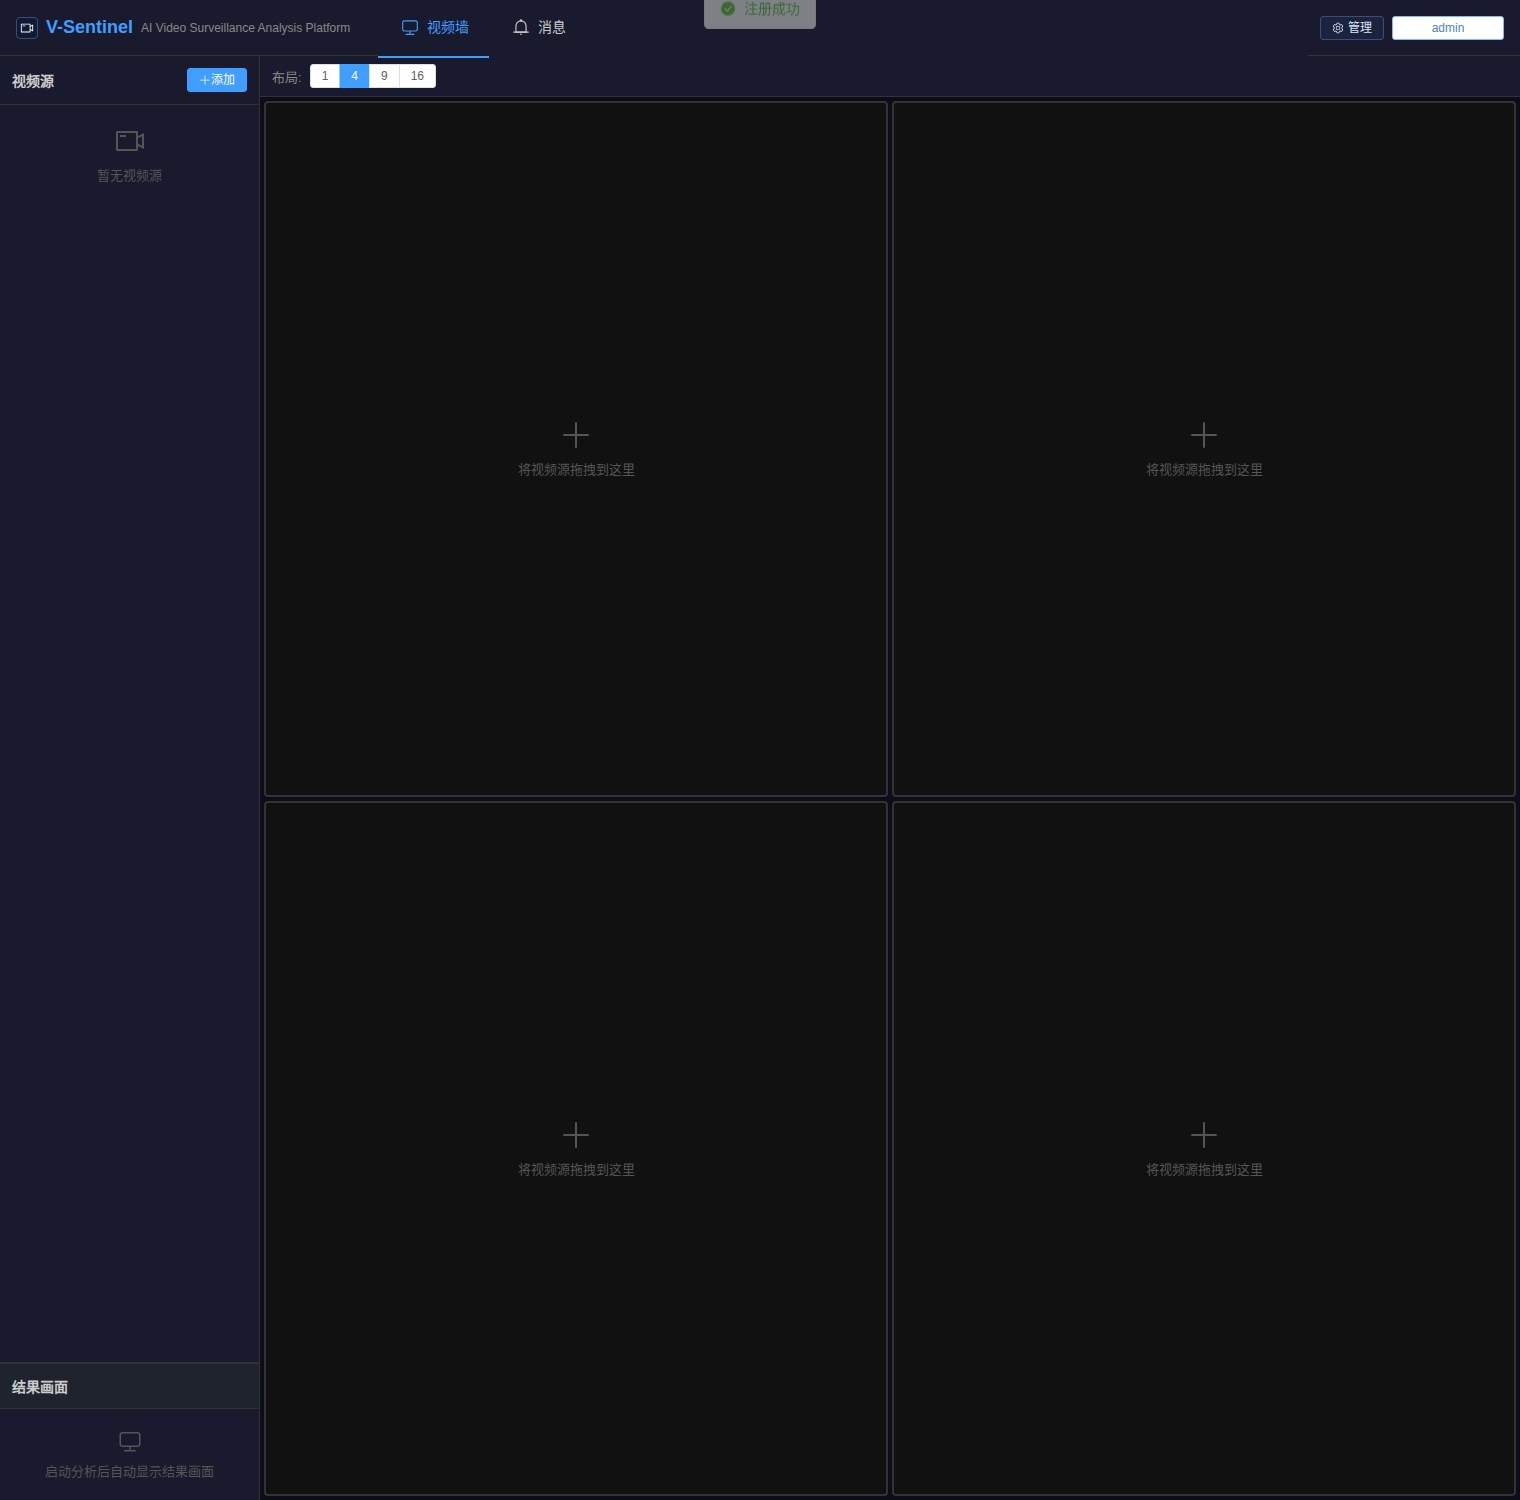
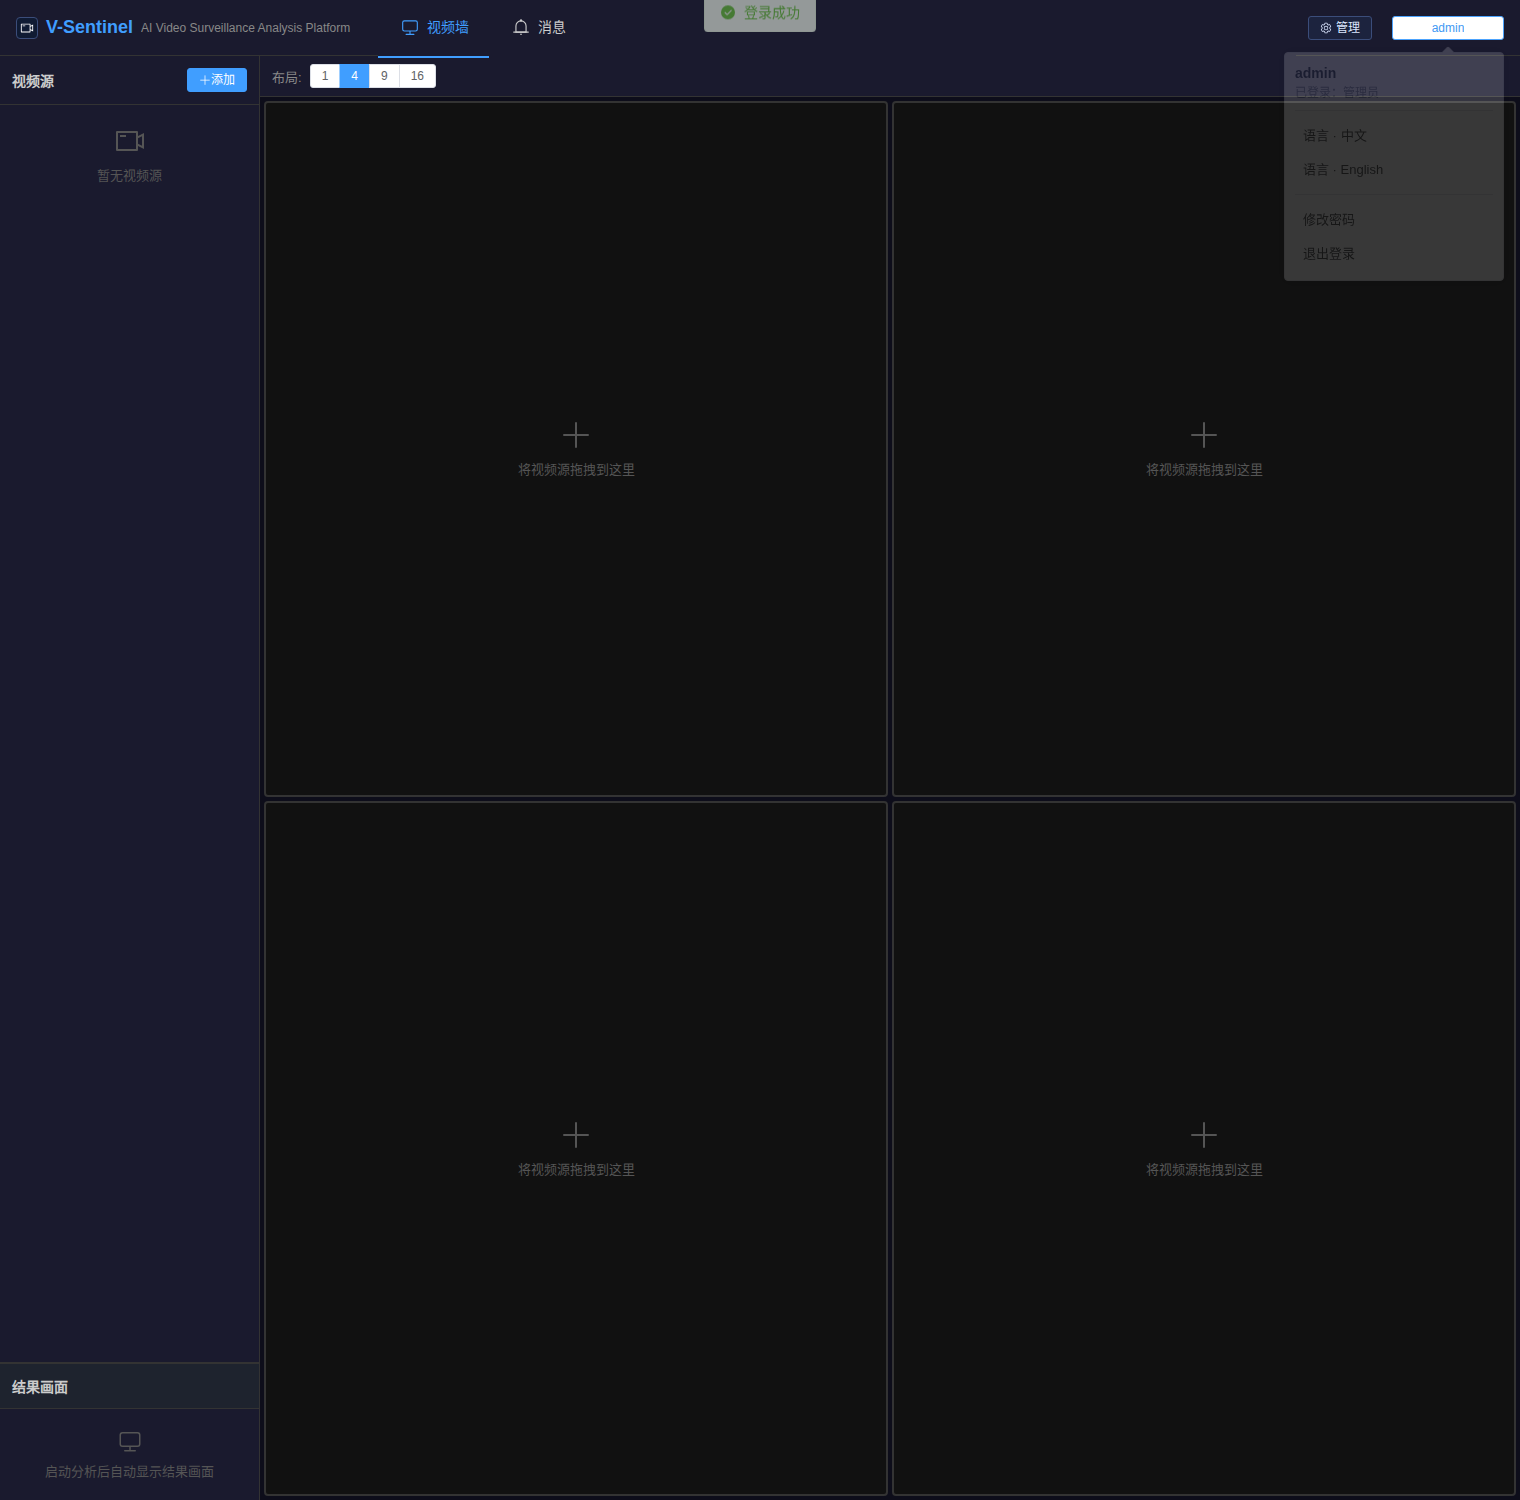
fix: register account popover and refresh screenshots
Agent-Logs-Url: https://github.com/doubletry/V-Sentinel-Smoke/sessions/e04d62c3-792f-4b02-a8a4-ff10dd51e361

Changed region(s): [[0.8349, 0.0, 0.9895, 0.2147], [0.4638, 0.0, 0.5257, 0.0307]]

diff --git a/frontend/src/main.js b/frontend/src/main.js
@@ -5,12 +5,14 @@ import ElButton, { ElButtonGroup } from 'element-plus/es/components/button/index
 import ElConfigProvider from 'element-plus/es/components/config-provider/index'
 import ElContainer, { ElHeader, ElMain } from 'element-plus/es/components/container/index'
 import ElDialog from 'element-plus/es/components/dialog/index'
+import ElDivider from 'element-plus/es/components/divider/index'
 import ElForm, { ElFormItem } from 'element-plus/es/components/form/index'
 import ElIcon from 'element-plus/es/components/icon/index'
 import ElInput from 'element-plus/es/components/input/index'
 import ElLoading from 'element-plus/es/components/loading/index'
 import ElMenu, { ElMenuItem } from 'element-plus/es/components/menu/index'
 import ElPagination from 'element-plus/es/components/pagination/index'
+import ElPopover from 'element-plus/es/components/popover/index'
 import ElScrollbar from 'element-plus/es/components/scrollbar/index'
 import ElSelect, { ElOption } from 'element-plus/es/components/select/index'
 import ElSwitch from 'element-plus/es/components/switch/index'
@@ -55,6 +57,7 @@ const elementPlusComponents = [
   ElConfigProvider,
   ElContainer,
   ElDialog,
+  ElDivider,
   ElForm,
   ElFormItem,
   ElHeader,
@@ -65,6 +68,7 @@ const elementPlusComponents = [
   ElMenuItem,
   ElOption,
   ElPagination,
+  ElPopover,
   ElScrollbar,
   ElSelect,
   ElSwitch,
